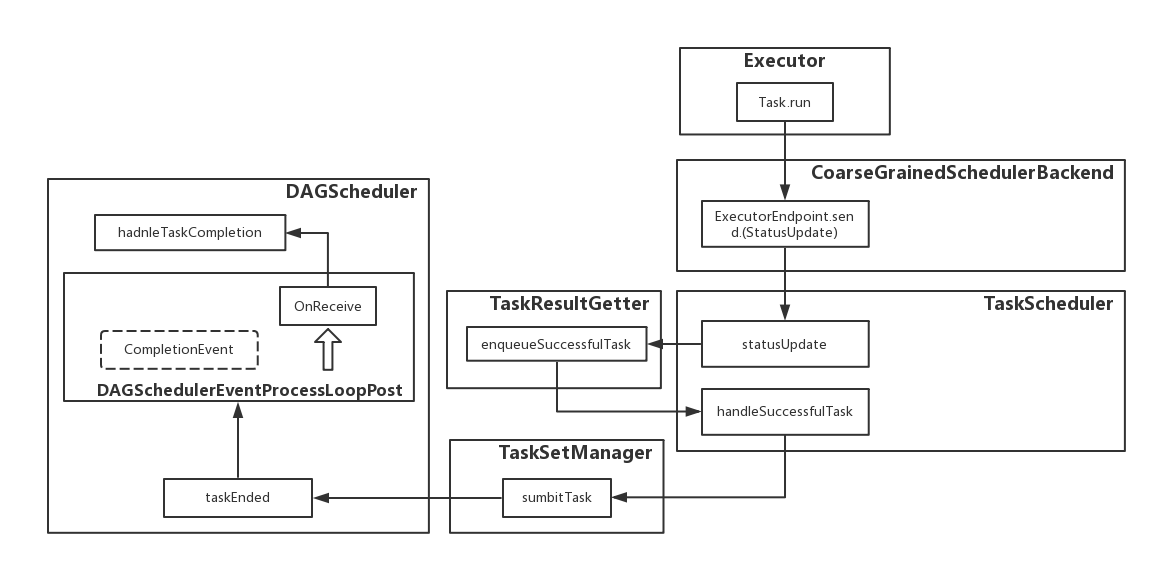
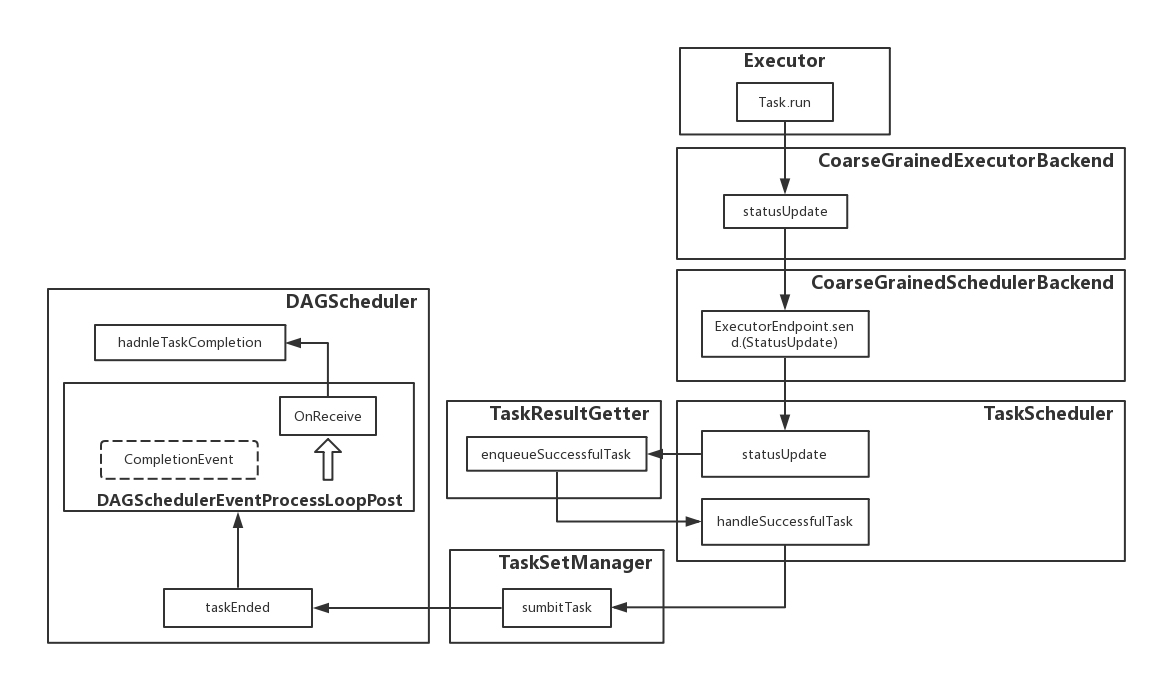
add schedule analysis

Changed region(s): [[0.0311, 0.0602, 0.9654, 0.9628], [0.0623, 0.3611, 0.3737, 0.7823], [0.0311, 0.3009, 0.3737, 0.3611]]

diff --git a/markdown/architecture.md b/markdown/architecture.md
@@ -430,33 +430,6 @@ private def submitWaitingChildStages(parent: Stage) {
     submitStage(stage)
   }
 }
-
-private[scheduler] def handleTaskCompletion(event: CompletionEvent) {
-  // ... ignore some codes
-  val stage = stageIdToStage(task.stageId)
-  event.reason match {
-    case Success =>
-      stage.pendingPartitions -= task.partitionId
-      task match {
-        case smt: ShuffleMapTask =>
-            // ... ignore some codes
-            clearCacheLocs()
-            if (!shuffleStage.isAvailable) {
-              submitStage(shuffleStage)
-            } else {
-              if (shuffleStage.mapStageJobs.nonEmpty) {
-                val stats = mapOutputTracker.getStatistics(shuffleStage.shuffleDep)
-                for (job <- shuffleStage.mapStageJobs) {
-                  markMapStageJobAsFinished(job, stats)
-                }
-              }
-              submitWaitingChildStages(shuffleStage)
-            }
-          }
-      }
-
-  }
-}
 ```
 
 用上面的例子分析一下每个Stage提交的过程
@@ -661,13 +634,232 @@ override def run(): Unit = {
 
   } catch {
     // ... ignore some codes
-
   } finally {
     runningTasks.remove(taskId)
   }
 }
 ```
 
+statusUpdate消息被转发了两次，最后调用TaskScheder的statusUpdate方法
 
+```scala
+// CoarseGrainedExecutorBackend
+override def statusUpdate(taskId: Long, state: TaskState, data: ByteBuffer) {
+  val msg = StatusUpdate(executorId, taskId, state, data)
+  driver match {
+    case Some(driverRef) => driverRef.send(msg)
+    case None => logWarning(s"Drop $msg because has not yet connected to driver")
+  }
+}
+
+// CoarseGrainedSchedulerBackend
+override def receive: PartialFunction[Any, Unit] = {
+  case StatusUpdate(executorId, taskId, state, data) =>
+    scheduler.statusUpdate(taskId, state, data.value)
+    // ... ignore some codes
+  }
+```
+
+statusUpdate主要根据不同的执行状态采用不同的处理方法
+* 任务执行成功，调用taskResultGetter.enqueueSuccessfulTask方法
+  * 如果上面返回的是directResult，直接拿到结果
+  * 如果是IndirectTaskResult，需要根据blockID远程去取
+  * 拿到结果之后调用TaskScheduler的handleSuccessfulTask方法
+* 任务执行失败，调用taskResultGetter.enqueueFailedTask方法
+  * 需要对失败的任务重新提交并调度
+
+```scala
+// TaskSchedulerImpl
+def statusUpdate(tid: Long, state: TaskState, serializedData: ByteBuffer) {
+  var failedExecutor: Option[String] = None
+  var reason: Option[ExecutorLossReason] = None
+  synchronized {
+    try {
+      taskIdToTaskSetManager.get(tid) match {
+        case Some(taskSet) =>
+          // ... ignore some codes
+          if (TaskState.isFinished(state)) {
+            cleanupTaskState(tid)
+            taskSet.removeRunningTask(tid)
+            if (state == TaskState.FINISHED) {
+              taskResultGetter.enqueueSuccessfulTask(taskSet, tid, serializedData)
+            } else if (Set(TaskState.FAILED, TaskState.KILLED, TaskState.LOST).contains(state)) {
+              taskResultGetter.enqueueFailedTask(taskSet, tid, state, serializedData)
+            }
+          }
+        // ... ignore some codes
+      }
+    } catch {
+      case e: Exception => logError("Exception in statusUpdate", e)
+    }
+  }
+  // ... ignore some codes
+}
+
+def enqueueSuccessfulTask(
+    taskSetManager: TaskSetManager,
+    tid: Long,
+    serializedData: ByteBuffer): Unit = {
+  getTaskResultExecutor.execute(new Runnable {
+    override def run(): Unit = Utils.logUncaughtExceptions {
+      try {
+        val (result, size) = serializer.get().deserialize[TaskResult[_]](serializedData) match {
+          case directResult: DirectTaskResult[_] =>
+            if (!taskSetManager.canFetchMoreResults(serializedData.limit())) {
+              return
+            }
+
+            directResult.value(taskResultSerializer.get())
+            (directResult, serializedData.limit())
+          case IndirectTaskResult(blockId, size) =>
+            if (!taskSetManager.canFetchMoreResults(size)) {
+              sparkEnv.blockManager.master.removeBlock(blockId)
+              return
+            }
+            logDebug("Fetching indirect task result for TID %s".format(tid))
+            scheduler.handleTaskGettingResult(taskSetManager, tid)
+            val serializedTaskResult = sparkEnv.blockManager.getRemoteBytes(blockId)
+            if (!serializedTaskResult.isDefined) {
+              scheduler.handleFailedTask(
+                taskSetManager, tid, TaskState.FINISHED, TaskResultLost)
+              return
+            }
+            val deserializedResult = serializer.get().deserialize[DirectTaskResult[_]](
+              serializedTaskResult.get.toByteBuffer)
+            deserializedResult.value(taskResultSerializer.get())
+            sparkEnv.blockManager.master.removeBlock(blockId)
+            (deserializedResult, size)
+        }
+        // ... ignore some codes
+        scheduler.handleSuccessfulTask(taskSetManager, tid, result)
+      } catch {
+        // ... ignore some codes
+      }
+    }
+  })
+}
+
+def enqueueFailedTask(taskSetManager: TaskSetManager, tid: Long, taskState: TaskState, serializedData: ByteBuffer) {
+  var reason : TaskFailedReason = UnknownReason
+  try {
+    getTaskResultExecutor.execute(new Runnable {
+      override def run(): Unit = Utils.logUncaughtExceptions {
+        val loader = Utils.getContextOrSparkClassLoader
+        try {
+          if (serializedData != null && serializedData.limit() > 0) {
+            reason = serializer.get().deserialize[TaskFailedReason](
+              serializedData, loader)
+          }
+        } catch {
+          case cnd: ClassNotFoundException =>
+            // Log an error but keep going here -- the task failed, so not catastrophic
+            // if we can't deserialize the reason.
+            logError(
+              "Could not deserialize TaskEndReason: ClassNotFound with classloader " + loader)
+          case ex: Exception => // No-op
+        }
+        scheduler.handleFailedTask(taskSetManager, tid, taskState, reason)
+      }
+    })
+  } catch {
+    case e: RejectedExecutionException if sparkEnv.isStopped =>
+      // ignore it
+  }
+}
+```
+
+如果一切正常，进入到handleSuccessfulTask方法，交给taskSetManager记性处理
+
+```scala
+// TaskSchedulerImpl
+def handleSuccessfulTask(
+    taskSetManager: TaskSetManager,
+    tid: Long,
+    taskResult: DirectTaskResult[_]): Unit = synchronized {
+  taskSetManager.handleSuccessfulTask(tid, taskResult)
+}
+
+// TaskSetManager
+def handleSuccessfulTask(tid: Long, result: DirectTaskResult[_]): Unit = {
+  // ... ignore some codes
+  sched.dagScheduler.taskEnded(tasks(index), Success, result.value(), result.accumUpdates, info)
+  // ... ignore some codes
+}
+
+// DAGScheduler
+def taskEnded(
+    task: Task[_],
+    reason: TaskEndReason,
+    result: Any,
+    accumUpdates: Seq[AccumulatorV2[_, _]],
+    taskInfo: TaskInfo): Unit = {
+  eventProcessLoop.post(
+    CompletionEvent(task, reason, result, accumUpdates, taskInfo))
+}
+```
+
+最终调用DAGScheduler中handleTaskCompletion方法
+
+如果任务是ShuffleMapTask，需要将计算结果告诉下游，具体做法是将上面IndirectResult或者DirectResult注册到mapOutputTracker中
+
+如果任务是ResultTask，那么将该任务标记为已经完成，清理掉所依赖的资源并通知总线
+
+```
+// DAGScheduler
+private[scheduler] def handleTaskCompletion(event: CompletionEvent) {
+  // ... ignore some codes
+  val stage = stageIdToStage(task.stageId)
+  event.reason match {
+    case Success =>
+      stage.pendingPartitions -= task.partitionId
+      task match {
+        case rt: ResultTask[_, _] =>
+          val resultStage = stage.asInstanceOf[ResultStage]
+          resultStage.activeJob match {
+            case Some(job) =>
+              if (!job.finished(rt.outputId)) {
+
+                if (job.numFinished == job.numPartitions) {
+                  markStageAsFinished(resultStage)
+                  cleanupStateForJobAndIndependentStages(job)
+                  listenerBus.post(
+                    SparkListenerJobEnd(job.jobId, clock.getTimeMillis(), JobSucceeded))
+                }
+                try {
+                  job.listener.taskSucceeded(rt.outputId, event.result)
+                } catch {
+                  case e: Exception =>
+                    job.listener.jobFailed(new SparkDriverExecutionException(e))
+                }
+              }
+            case None =>
+              logInfo("Ignoring result from " + rt + " because its job has finished")
+          }
+
+        case smt: ShuffleMapTask =>
+          // ... ignore some codes
+          if (runningStages.contains(shuffleStage) && shuffleStage.pendingPartitions.isEmpty) {
+            markStageAsFinished(shuffleStage)
+
+            mapOutputTracker.registerMapOutputs(
+              shuffleStage.shuffleDep.shuffleId,
+              shuffleStage.outputLocInMapOutputTrackerFormat(),
+              changeEpoch = true)
+
+          }
+          // ... ignore some codes
+      }
+    // ... ignore some codes
+  }
+}
+```
+
+最后总结下获取计算结果的流程图
 
 ![](../img/architecture/Spark-ReceiveResult.png)
+
+### 小结
+
+至此，Spark作业调度部分已经结束。当然，上面的分析省略了许多错误处理的机制，只是按照一切都正常的流程走了一遍。
+
+可以看到，在分布式的系统中，一方面实现某个最初设想的功能即便有一些困难，但是和实现容错处理机制比起来，工作量差了很多，同时容错处理也提高了分布式系统软件的开发门槛。Spark的数据模型是RDD，因此，在容错处理的时候相对变得容易些，只需要将数据重新计算一遍即可，不需要考虑数据这个时候怎么存储迁移等问题。好的设计往往能事半功倍。
